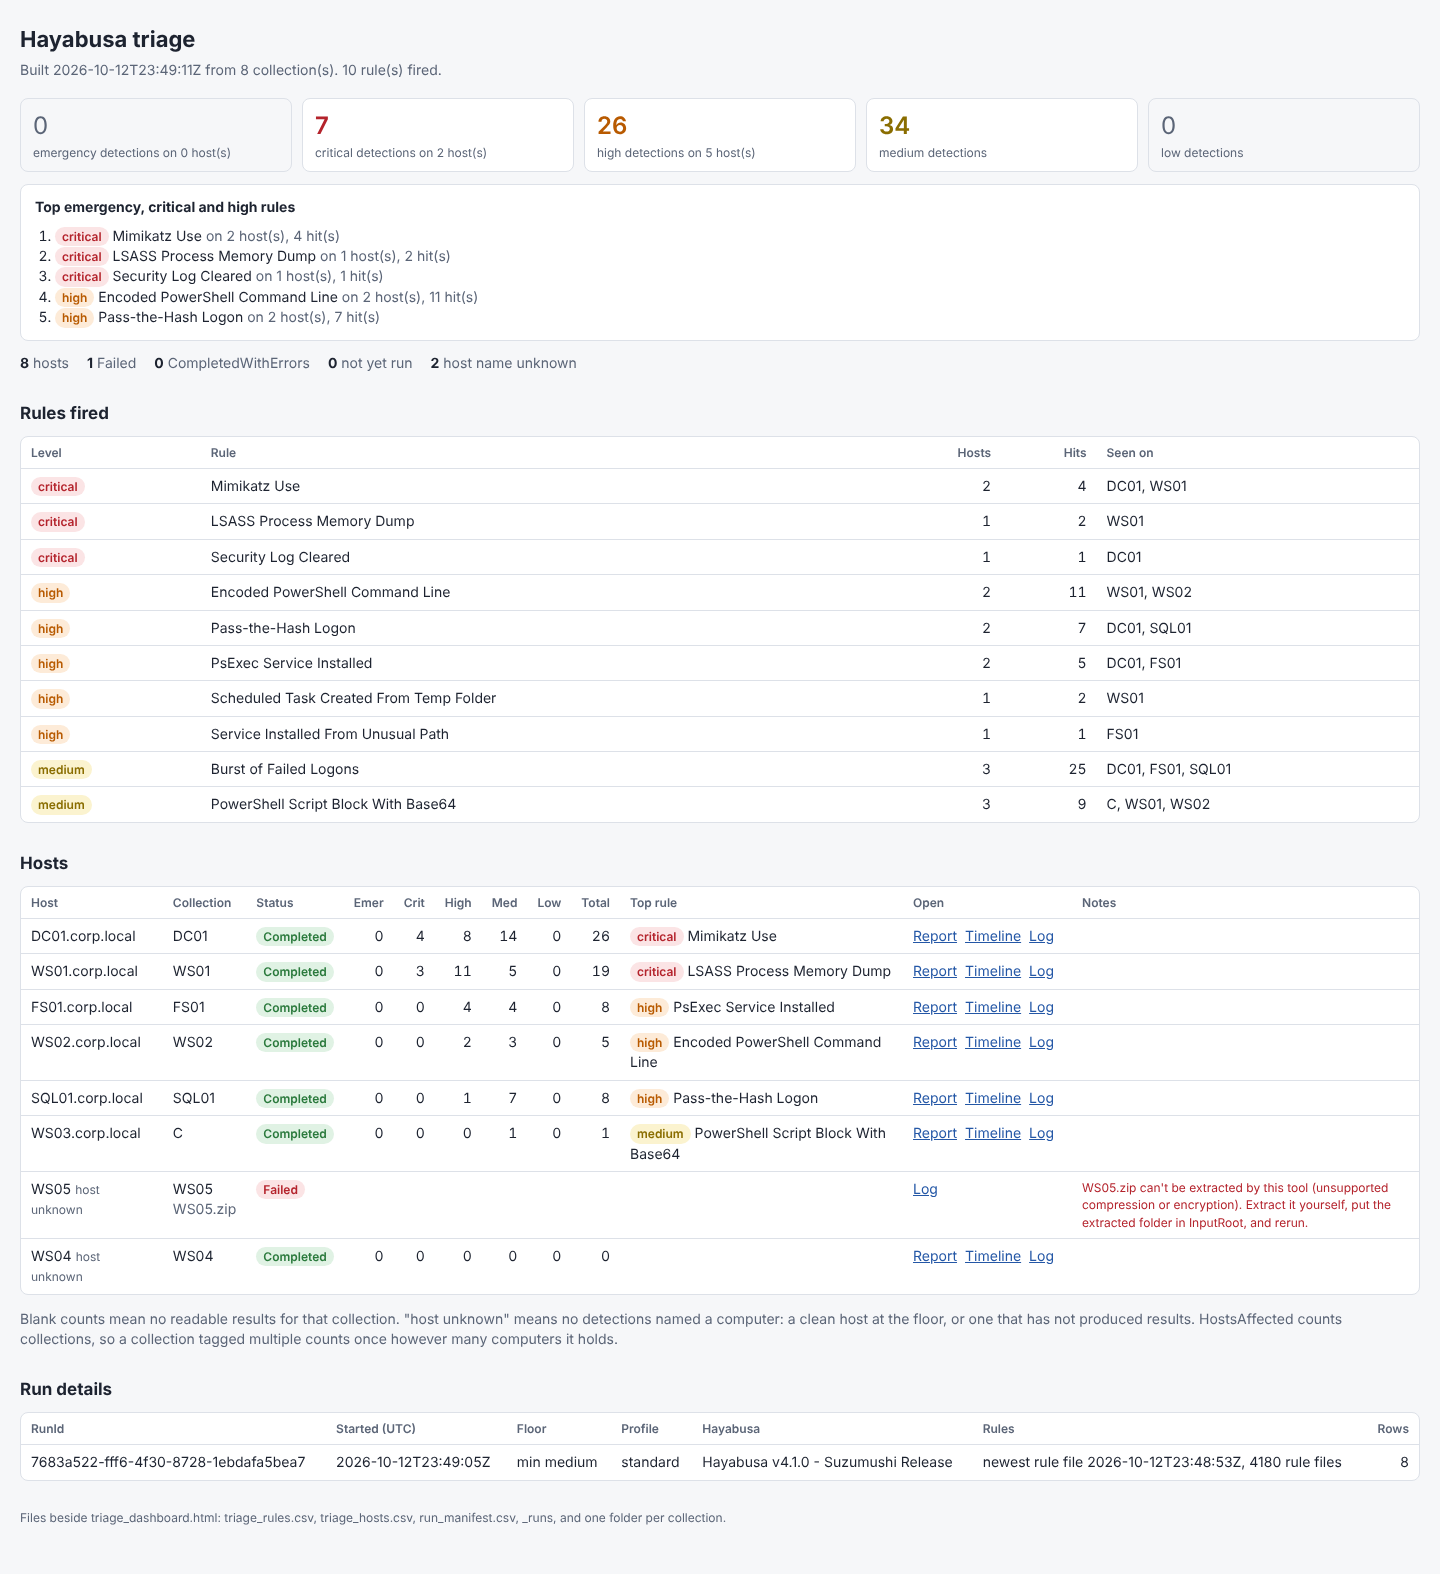
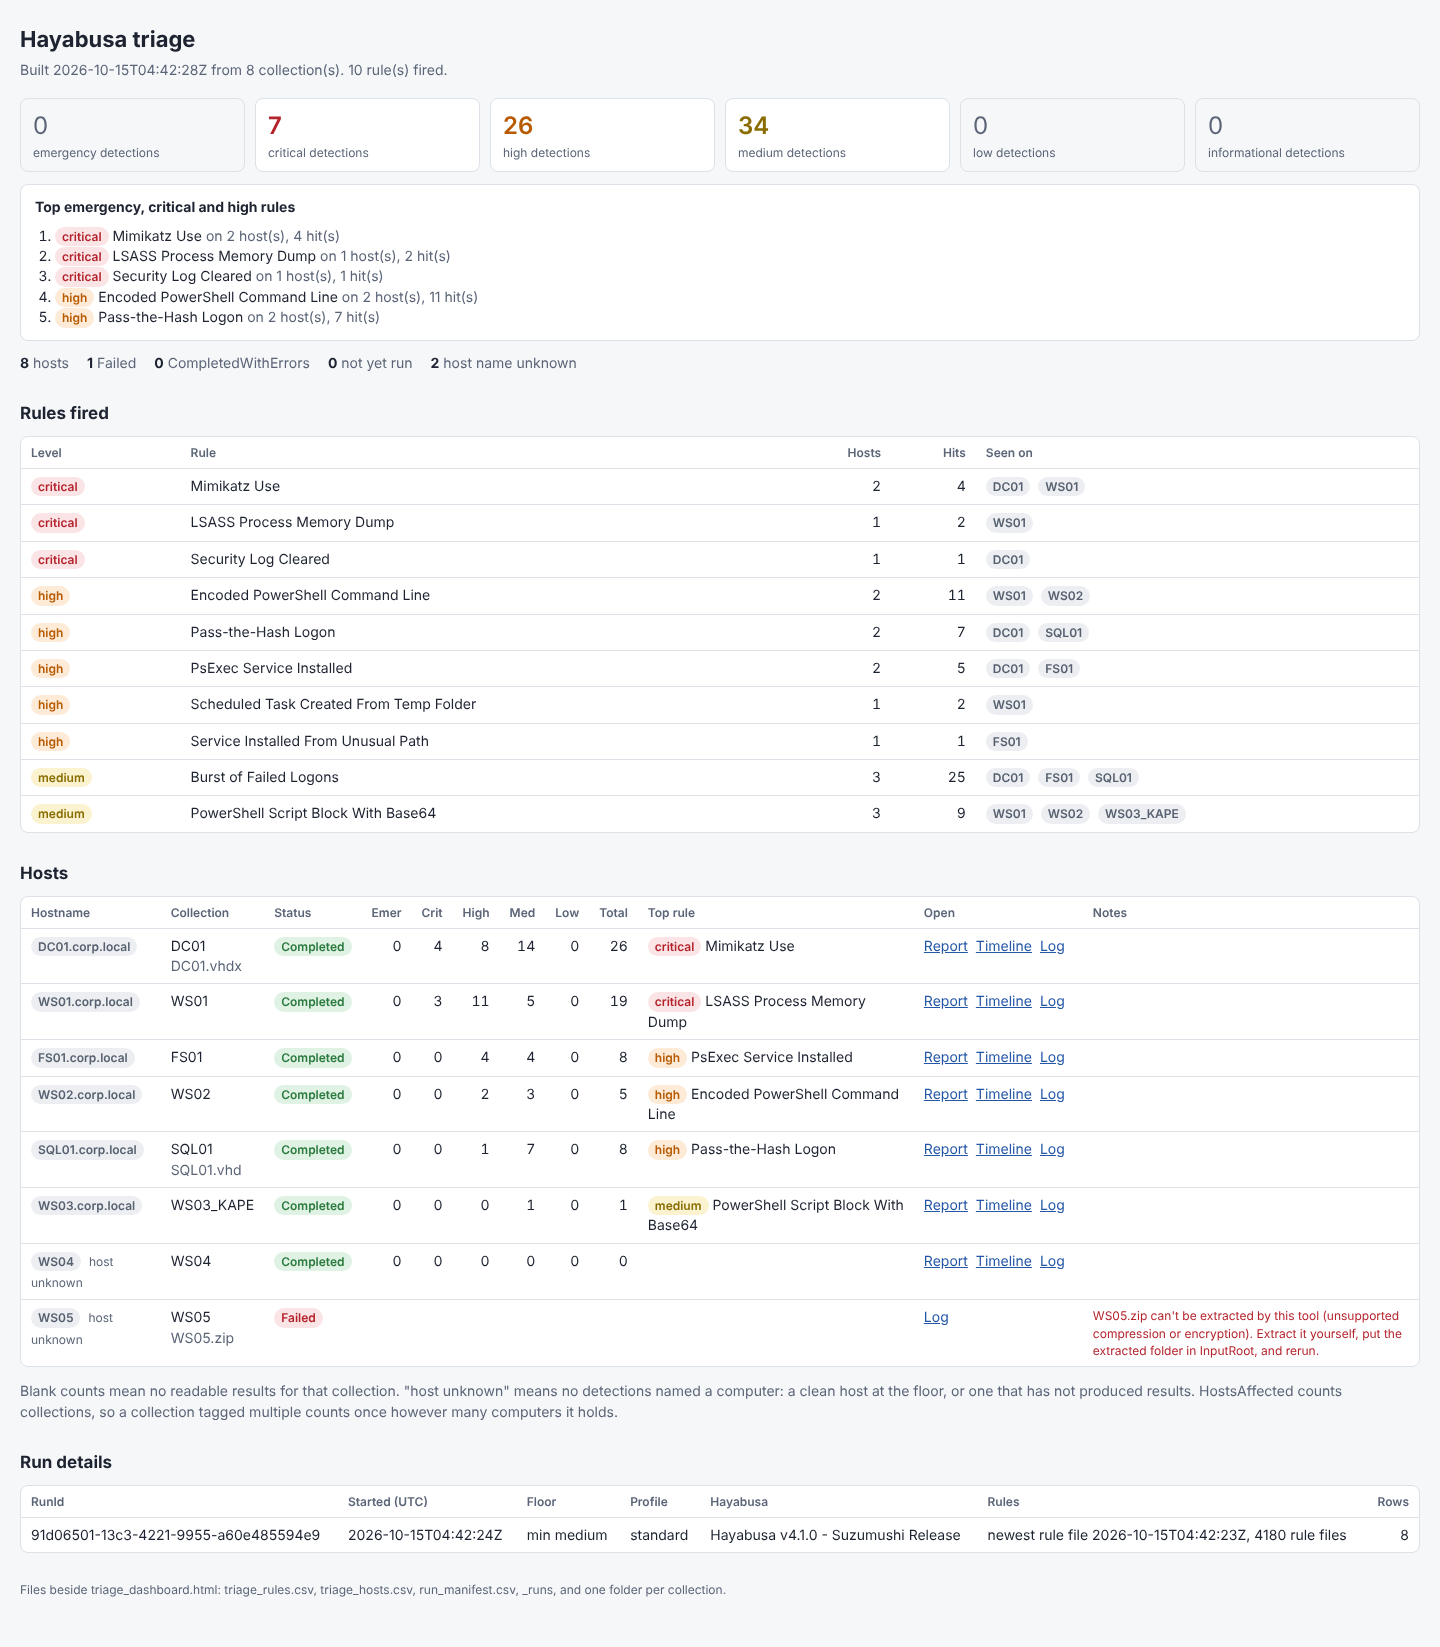
Dashboard: plain tiles, informational tile, name chips, results-first hosts
- Summary tiles show a plain count per severity, with the host subtext
  removed, and there is a new informational tile. The rollup carries
  the Informational count on each host row.
- Host names in the host table and collections in the rules table's
  Seen on column are grey chips that wrap within the cell. A
  multiple-computer host shows up to three names, then +N.
- The host table's first column is headed Hostname. triage_hosts.csv
  keeps its Host column.
- Hosts with results sort first, worst first. Hosts without results
  sort below them, by status, then collection.
- docs/images/dashboard.png regenerated from the synthetic demo run,
  now showing loose, .vhdx, .vhd and .zip collections.

diff --git a/CHANGELOG.md b/CHANGELOG.md
@@ -6,6 +6,13 @@ The format is based on [Keep a Changelog](https://keepachangelog.com/en/1.1.0/),
 
 ## [Unreleased]
 
+### Changed
+
+- The dashboard summary tiles show a plain count per severity, and now include an informational tile. The host subtext on the emergency, critical and high tiles is removed, so all six read the same way.
+- Host names in the dashboard's host table, and the collections in the rules table's "Seen on" column, are shown as grey chips that wrap within the cell, so a long name no longer widens the table.
+- The dashboard's host table heads its first column Hostname instead of Host. `triage_hosts.csv` keeps its Host column.
+- The host table and `triage_hosts.csv` list hosts with results first, worst first, and hosts without results, such as Failed, Running and Pending, below them.
+
 ## [0.7.0] - 2026-10-14
 
 ### Added
